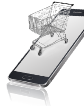
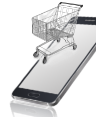
BDO-315: update resolutions on pngs for secondary catalog

diff --git a/apps/bdo/src/app/main/home/secondary-catalog/secondary-catalog.component.html b/apps/bdo/src/app/main/home/secondary-catalog/secondary-catalog.component.html
@@ -1,15 +1,15 @@
 <div class="secondary-catalog">
   <ul class="catalog-list-container">
-    <li class="spend" [style.background-image]="'url(assets/images/img-spend_anywhere.png)'" (click)="navigateToCatalog(dealsCategory.spend)">
+    <li class="spend" [style.background-image]="'url(assets/images/img-spend_anywhere@2x.png)'" (click)="navigateToCatalog(dealsCategory.spend)">
       <span>Spend anywhere</span>
     </li>
-    <li class="shop" [style.background-image]="'url(assets/images/img-shop_choose_redeem.png)'" (click)="navigateToCatalog(dealsCategory.redeem)">
+    <li class="shop" [style.background-image]="'url(assets/images/img-shop_choose_redeem@2x.png)'" (click)="navigateToCatalog(dealsCategory.redeem)">
       <span>Shop.Choose.<br/>Redeem</span>
     </li>
-    <li class="online" [style.background-image]="'url(assets/images/img-online_exclusives.png)'" (click)="navigateToCatalog(dealsCategory.online)">
+    <li class="online" [style.background-image]="'url(assets/images/img-online_exclusives@2x.png)'" (click)="navigateToCatalog(dealsCategory.online)">
       <span>Online Exclusives</span>
     </li>
-    <li class="reward" [style.background-image]="'url(assets/images/img-bdorewards.png)'" (click)="navigateToCatalog(dealsCategory.rewards)">
+    <li class="reward" [style.background-image]="'url(assets/images/img-bdorewards@2x.png)'" (click)="navigateToCatalog(dealsCategory.rewards)">
       <span>BDO Rewards</span>
     </li>
   </ul>
